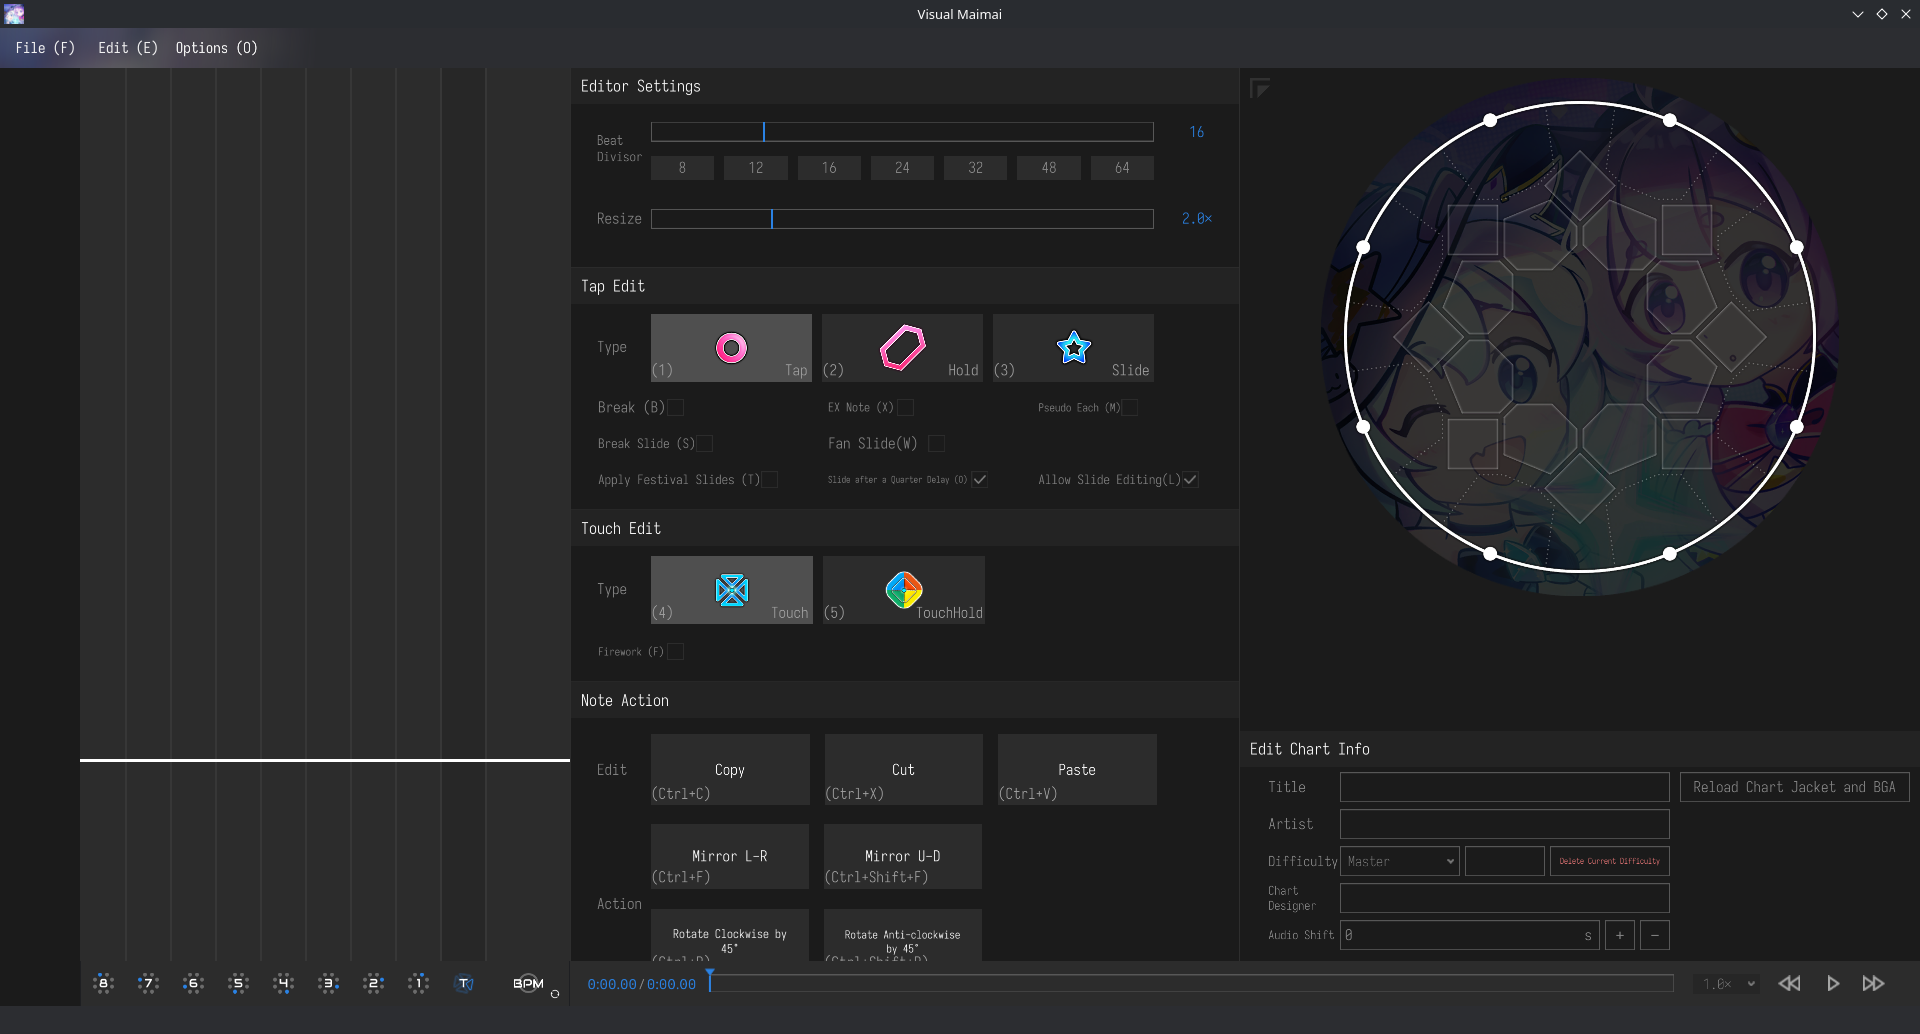
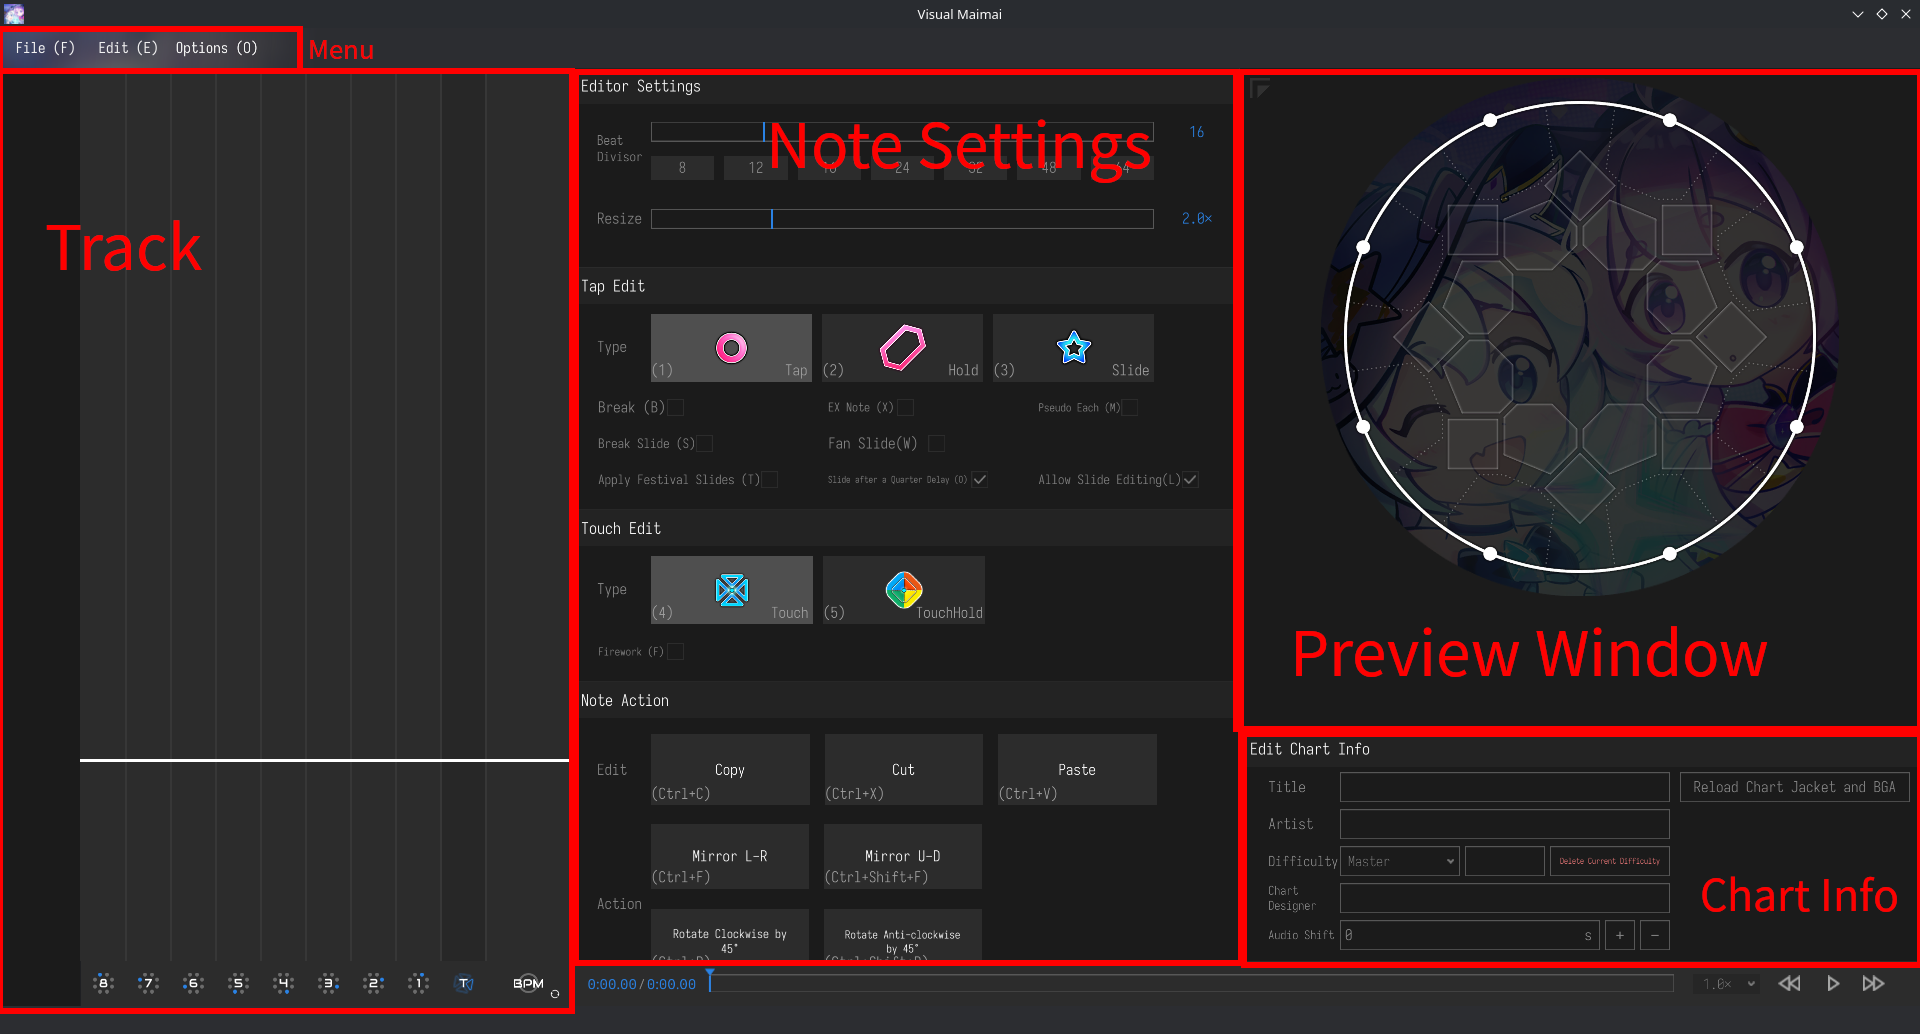
Changed Readme and more english

diff --git a/docs/en/guide/gui.md b/docs/en/guide/gui.md
@@ -1,46 +1,64 @@
-# Visual Maimai的操作界面
+# Visual Maimai's Interface
 > [!WARNING]
 > There is no translate now,but soon.
 
 > [!TIP]
 > 本文较长，推荐按照旁边的目录来快速阅读或者找到你所需要了解的地方。
+> This article is a bit long,I recommend following the list to find what do you need.
 
-下载完Visual Maimai并运行后，你会看到以下的页面：
-![VMGUI](/photo/vmgui.jpg)
-我们分区域讲解功能。
-## 菜单
-菜单区域分三个选项，分别是：文件、编辑、选项。
-### 文件
+下载完Visual Maimai并运行后，你会看到以下的页面：  
+When you running Visual Maimai,you will see this interface:  
+![VMGUI](/en/photo/vmgui_en.png)
+我们分区域讲解功能。  
+We'll explain it each area. 
+## Menu
+菜单区域分三个选项，分别是：文件、编辑、选项。  
+The Menu area have 3 options:File,Edit,Options.
+### File
 点击文件选项，你可以看到下面的菜单：  
-![文件](/photo/vm文件.png)
-#### 打开  
-打开的功能可以调出文件选择器里面选择音乐文件，如果选择的文件所属文件夹内有pv.mp4，则会自动把BGA导入谱面；如果选择的文件所属文件夹内有maidata.txt，则会自动将谱面导入Visual Maimai，可在轨道区域里面看到。同时，如果你没有导入音乐文件，Visual Maimai将无法制作谱面文件（无法在轨道区域内创建note）
-#### 保存  
-顾名思义，可以将谱面文件以maidata的格式保存在maidata.txt，同时也会在chart.json里面保存谱面的元数据（Metadata）
-#### 导入maidata  
-如果你已经有了一份maidata.txt文件，那么可以通过该功能把谱面导入Visual Maimai并进行编辑。
-#### 导出谱面
-将谱面导出为maidata文件，没有BGA也没有封面，可以直接导入[Majdata](https://majdata.net/edit)以进行视频录制。
-#### 导出为压缩包
-可以将谱面导出为zip格式，可以自行修改后缀名为adx以载入[AstroDX](https://wiki.astrodx.com/cn)以进行游玩。
+In file options,you can see these:  
+![文件](/en/photo/vmfile.png)
+#### Open  
+打开的功能可以调出文件选择器里面选择音乐文件，如果选择的文件所属文件夹内有pv.mp4，则会自动把BGA导入谱面；如果选择的文件所属文件夹内有maidata.txt，则会自动将谱面导入Visual Maimai，可在轨道区域里面看到。  
+"Open" only can choose song file (MP3/OGG),if the song file in the folder where there is maidata.txt or pv.mp4,Visual Maimai will automaticlly import the chart or PV.  
+同时，如果你没有导入音乐文件，Visual Maimai将无法制作谱面文件（无法在轨道区域内创建note）  
+And,if you didn't import the song file,you'll can't place note at the track.
+#### Save  
+顾名思义，可以将谱面文件以maidata的格式保存在maidata.txt，同时也会在chart.json里面保存谱面的元数据（Metadata）  
+As the name implies,it can save chart by maidata,save to maidata.txt,and also save the metadata at chart.json.
+#### Import maidata  
+如果你已经有了一份maidata.txt文件，那么可以通过该功能把谱面导入Visual Maimai并进行编辑。  
+If you already have a maidata.txt file,then you can import charts by this feature.
+#### Export chart
+将谱面导出为maidata文件，没有BGA也没有封面，可以直接导入[Majdata](https://majdata.net/edit)以进行视频录制。  
+Let chart export as maidata,no PV and no cover,can import to Majdata directly to record the chart video.
+#### Export as zip
+可以将谱面导出为zip格式，可以自行修改后缀名为adx以载入[AstroDX](https://wiki.astrodx.com/cn)以进行游玩。  
+It can export charts as ZIP file,you can change the extension to ADX for load to AstroDX for play.
 #### 重载谱面文件
-#### 开启谱面共享/加入谱面共享
+#### Enable/Join Chart Sharing
 1.3.0版本新功能，可以通过内网（或者内网穿透）以与其他谱面制作者协作创作谱面。
-#### 谱面统计
+New ferature of 1.3.0,Can share the charts by intranet to collaborative create charts.
+#### Total Note Summary
 可以统计谱面内有多少Note，如下图：  
-![谱面统计SAMPLE](/photo/vm谱面统计.png)
-#### 全屏预览/导出视频
+Can summary how many notes do the charts have,example this:   
+![谱面统计SAMPLE](/en/photo/vmsummary.png)
+#### Fullscreen Preview/Export Video
 可以直接在Visual Maimai内全屏预览谱面，第二个可以导出视频。
+Can previev charts at Visual Maimai for fullscreen,the second one can export the chart video.  
 
-### 编辑
+### Edit
 点击编辑选项，你可以看到下面的菜单：  
-![编辑](/photo/vm编辑.png)
-#### 撤销/重做
+In edit opitions,you can see this:    
+![编辑](/en/photo/vmedit.png)
+#### Undo/Redo
 可以把操作回退到上一步，或者把回退的操作恢复。
-#### 全选/取消选中
-可以把在轨道区域内的所有note全部选中，或者取消选中。
-#### 复制/剪切/粘贴/删除
-可以将你选中的note复制到VM自带的剪切板（剪切为将已经写上的Note删掉并复制），选择位置后粘贴。选中的地方可以按DEL删除。
+#### Select All/Cancel Selection
+可以把在轨道区域内的所有note全部选中，或者取消选中。  
+It can select all notes where in the track,or cancel selection.
+#### Copy/Cut/Paste/Delete
+可以将你选中的note复制到VM自带的剪切板（剪切为将已经写上的Note删掉并复制），选择位置后粘贴。选中的地方可以按DEL删除。  
+It can let the selected note copy to copyboard,(Cut is remove and copy),then choose a place to paste. You can press DEL to remove notes if it's selected.
 #### 左右/上下翻转、顺时针/逆时针旋转45°
 - 翻转  
 将选中的Note左右/上下翻转，不保留未翻转前的note 

diff --git a/README.md b/README.md
@@ -1,11 +1,17 @@
 ![visual maimai介绍视频封面](docs/photo/vmheadphoto.jpg)  
 [English](README_EN.md)  
+![Lisence](https://img.shields.io/badge/Lisence-CC_BY_NC_SA_4.0-green)
+![QQ](https://img.shields.io/badge/QQ-947421931-blue?logo=qq)
+![Github](https://img.shields.io/badge/Github-VM_Release-b39fe8?logo=github&link=github.com%2FCH3COOOHH%2FVisual-Maimai-Release%2Freleases)
+![Discord](https://img.shields.io/discord/1410230993691873474?logo=discord&link=https%3A%2F%2Fdiscord.gg%2FR5eGkMk9Pj)
+![GitHub Repo stars](https://img.shields.io/github/stars/CH3COOOHH/Visual-Maimai-Release?link=https%3A%2F%2Fgithub.com%2FCH3COOOHH%2FVisual-Maimai-Release%2Freleases)
+
 # Visual Maimai是什么
 Visual Maimai是一个舞萌DX自制谱可视化制作工具，由于其可视化的操作方式，将舞萌DX自制谱的难度降低。  
 神奇的vm纺纱机会将可视化和simai融为一体，这不神奇吗，点击[链接](https://github.com/CH3COOOHH/Visual-Maimai-Release)获取一个获取一个获取一个获取一个（绝美jiafei叫声）
 # 开始阅读
 - [文档](https://visual-maimai-manual.github.io/)
-- [加入Discord服务器](https://discord.gg/R5eGkMk9Pj)
+- 加入Discord服务器![Discord](https://img.shields.io/discord/1410230993691873474?logo=discord&link=https%3A%2F%2Fdiscord.gg%2FR5eGkMk9Pj)
 - QQ群号：947421931
 # 作出修改/贡献
 如果你发现该文档有部分错误或过时信息，欢迎进行修改。
